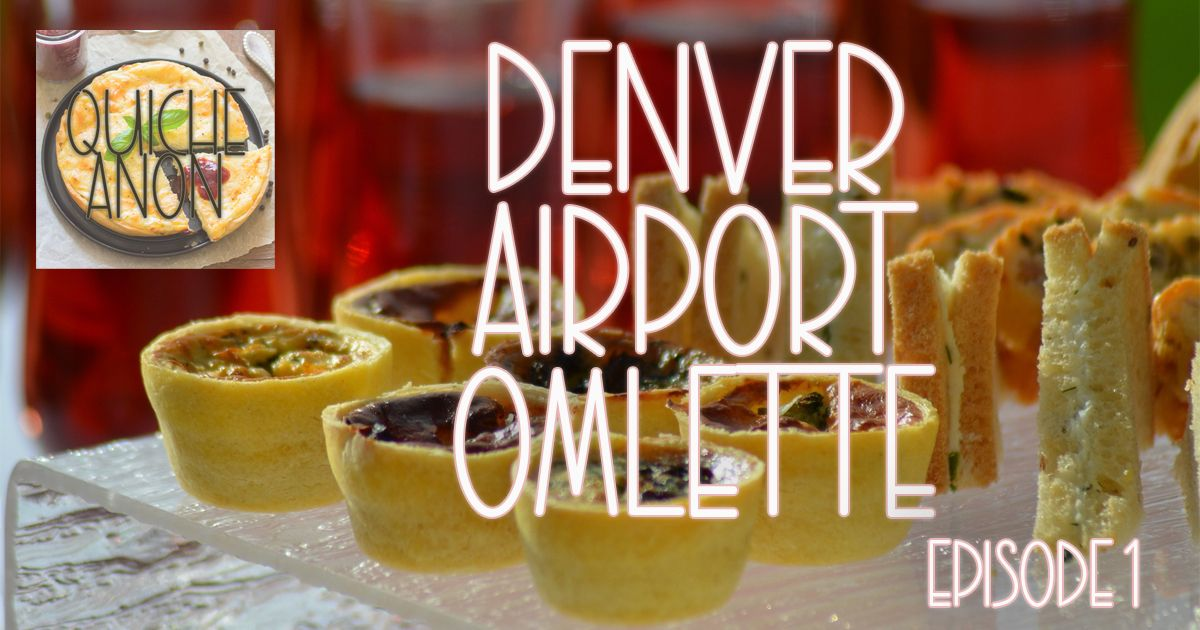
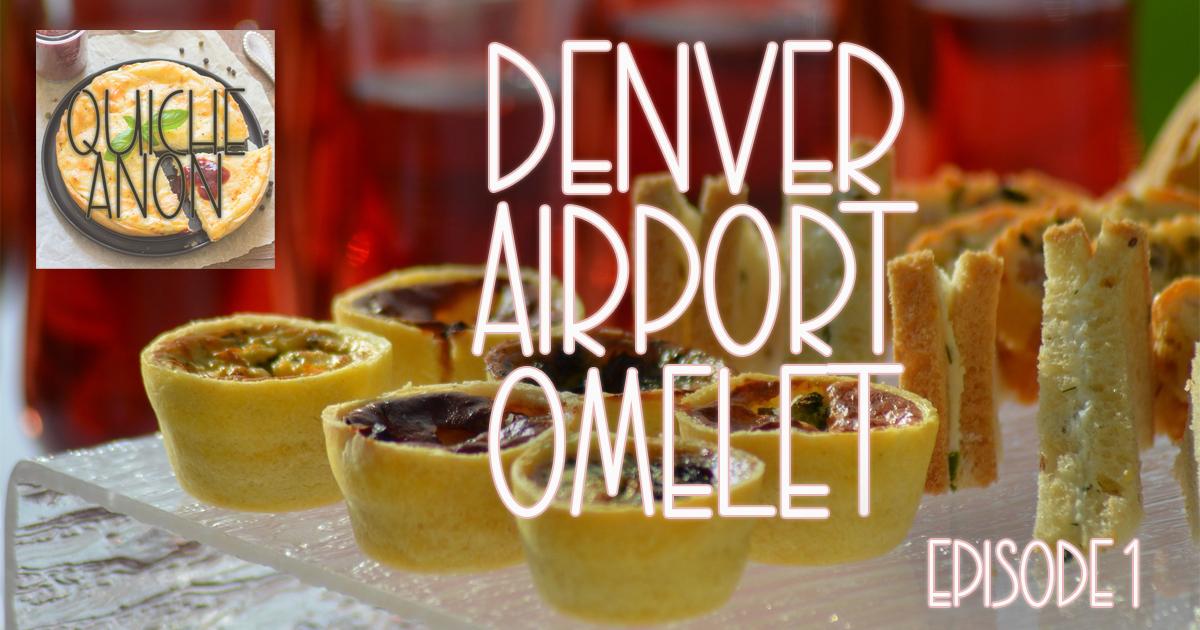
Fix spelling of omelet

Changed region(s): [[0.37, 0.573, 0.8017, 0.8444], [0.0617, 0.0905, 0.2158, 0.3619]]

diff --git a/content/episode/denver-airport-omlette.md b/content/episode/denver-airport-omlette.md
@@ -10,11 +10,11 @@ episode_banner = "img/episode/denver-airport-omlette-banner.jpg"
 #guests = [] # The names of your guests, based on the filename without extension.
 #sponsors = []
 episode = "1"
-title = "Denver Airport Omlette"
+title = "Denver Airport Omelet"
 #subtitle = ""
 images = ["img/episode/denver-airport-omlette-banner.jpg"]
 hosts = ["kelli","matt"] # The names of your hosts, based on the filename without extension.
-aliases = ["/1", "denver-airport-omelet"]
+aliases = ["/1", "denver-airport-omelet", "denver-airport-omelette"]
 #youtube = ""
 explicit = "yes" # values are "yes" or "no"
 # media_override # if you want to use a specific URL for the audio file
